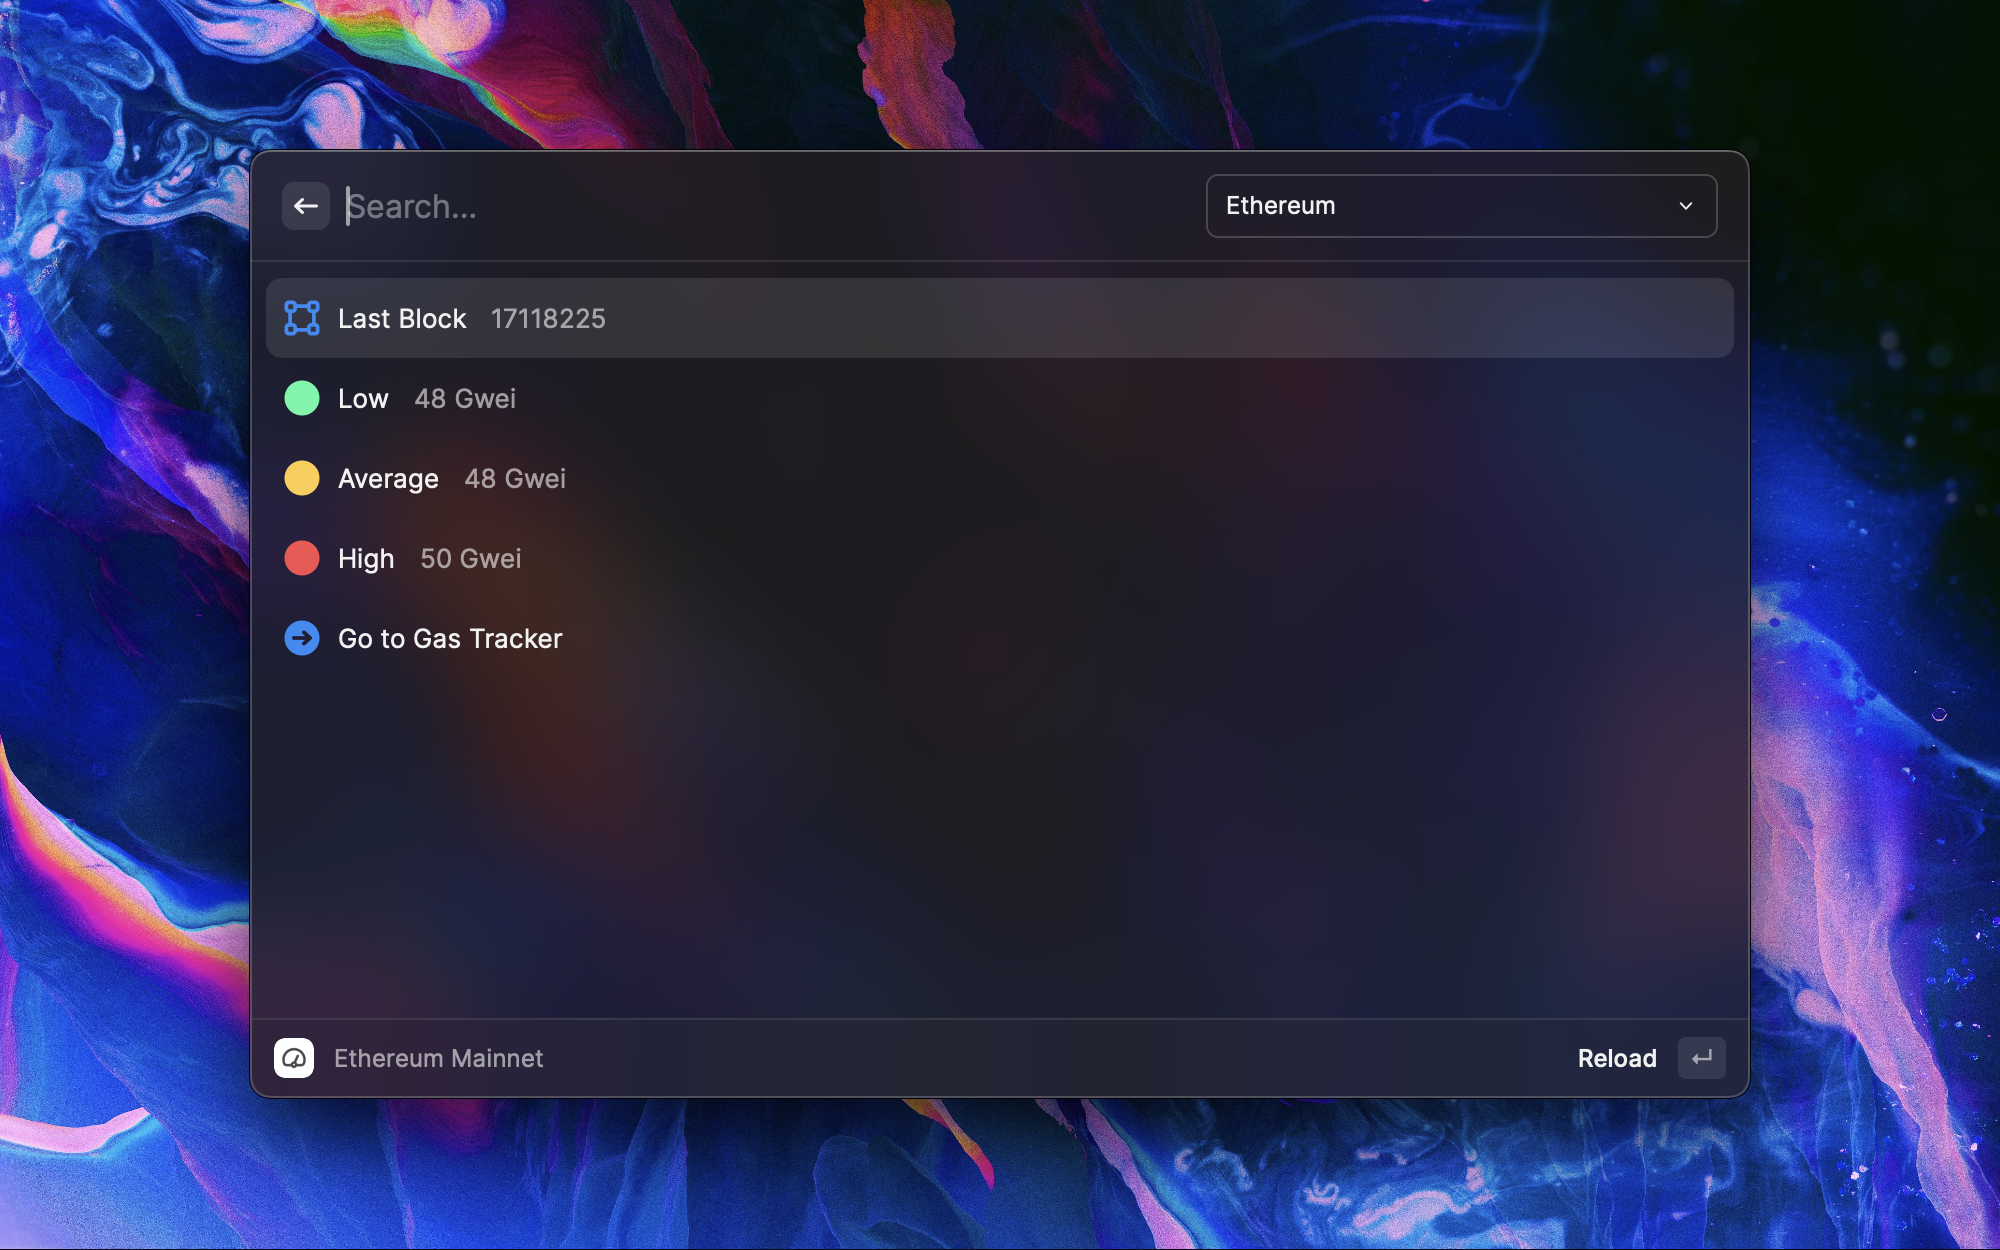
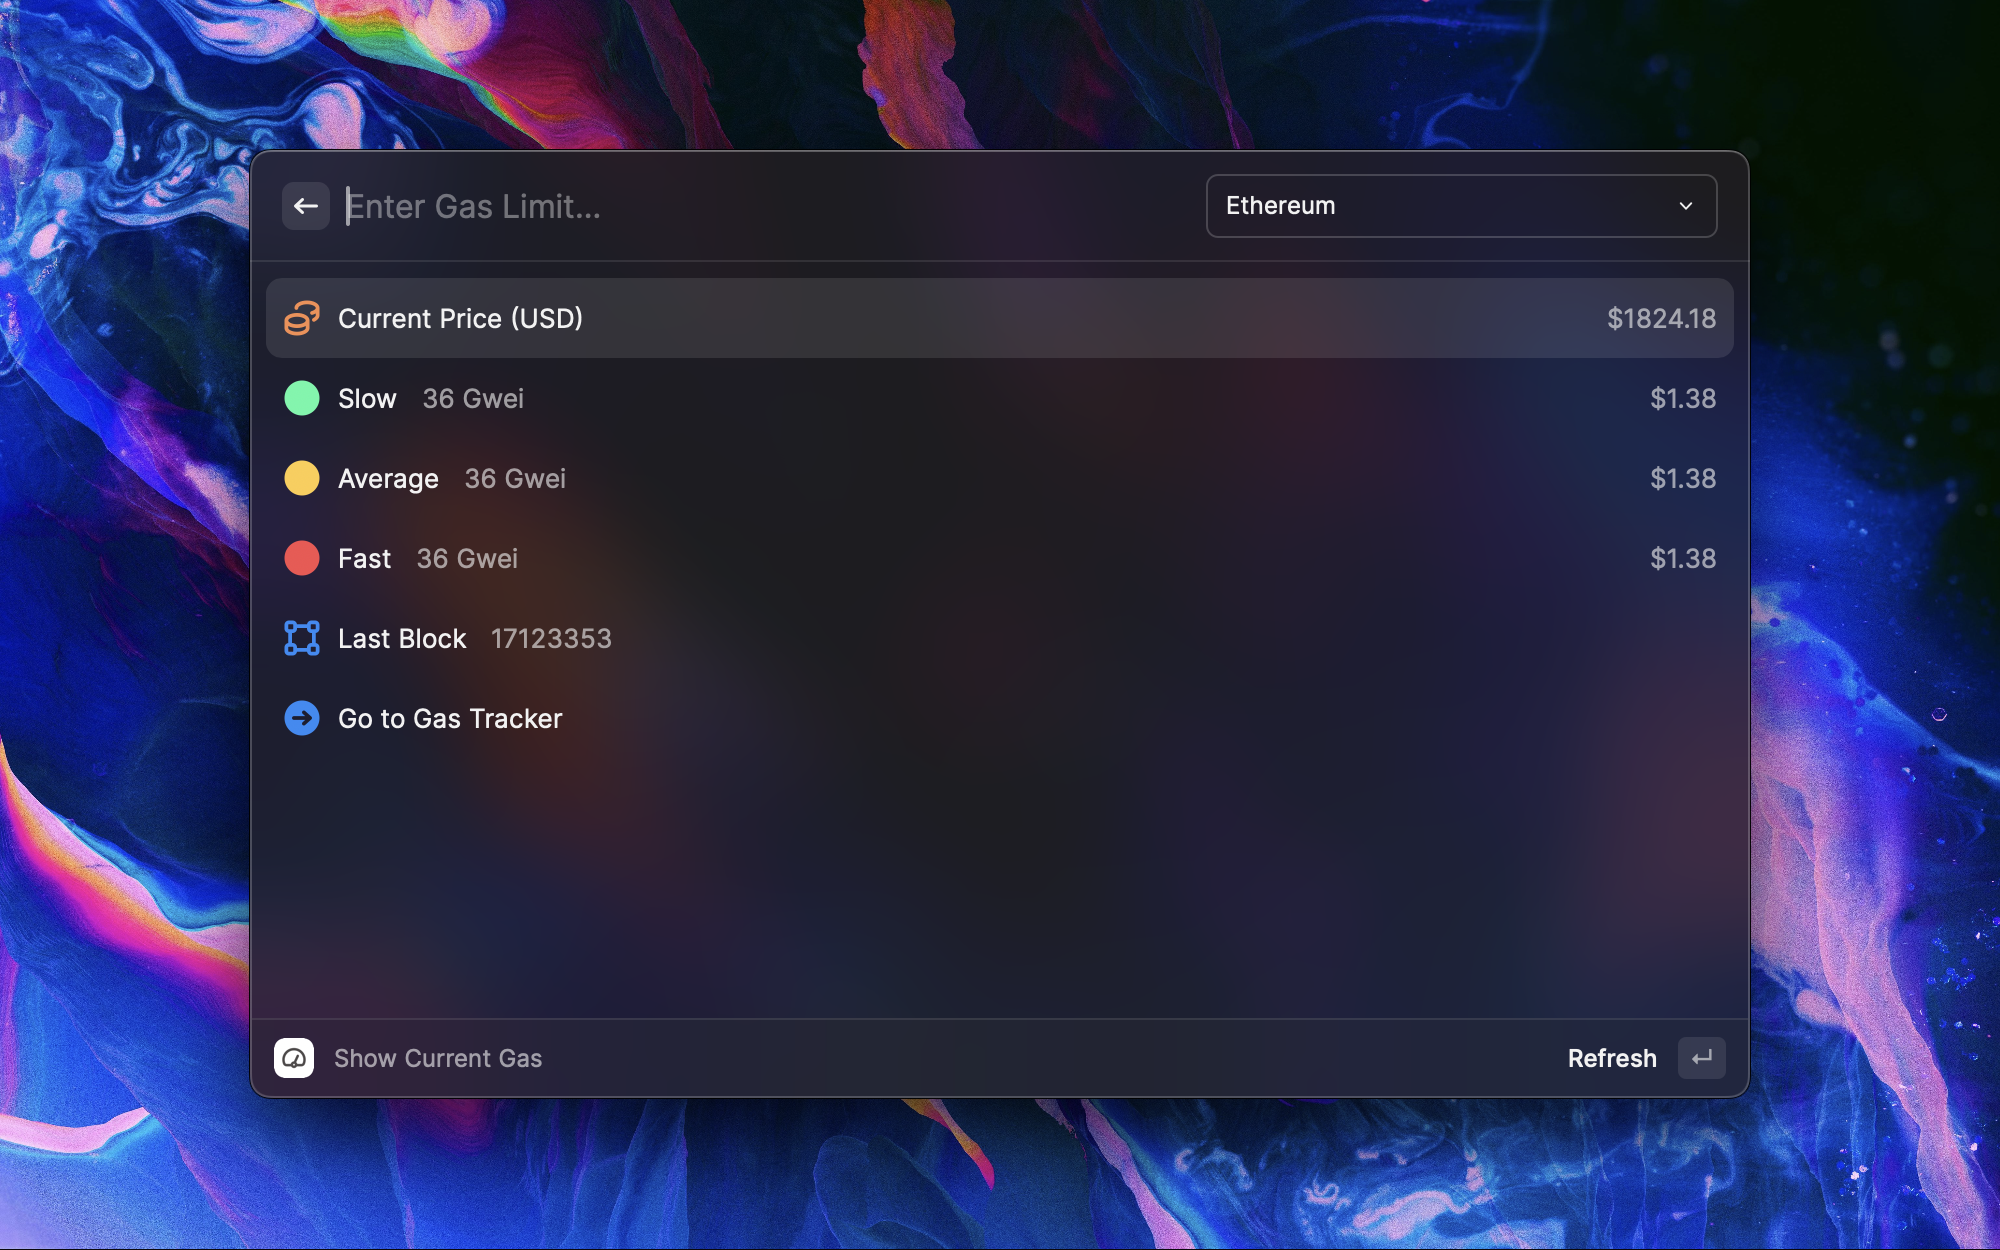
Pull contributions

diff --git a/src/currentGas.tsx b/src/currentGas.tsx
@@ -1,8 +1,8 @@
-import { ActionPanel, Detail, List, Action, Icon, Color } from "@raycast/api";
+import { ActionPanel, List, Action, Icon, Color, getPreferenceValues } from "@raycast/api";
 import { useFetch } from "@raycast/utils";
 import { useState } from "react";
 
-type gasResp = {
+interface gasResp {
   status: string;
   message: string;
   result: {
@@ -12,103 +12,237 @@ type gasResp = {
     FastGasPrice: string;
     suggestBaseFee: string;
     gasUsedRatio: string;
+    UsdPrice: string;
   };
-};
+}
+
+interface priceResp {
+  status: string;
+  message: string;
+  result: {
+    [key: string]: string;
+  };
+}
+
+interface preference {
+  ethscanKey: string;
+  polygonscanKey: string;
+  bscscanKey: string;
+}
 
 export default function Command() {
+  const preference = getPreferenceValues<preference>();
+  const [token, setToken] = useState<string>("eth");
   const [explorerUrl, setExplorerUrl] = useState<string>("https://etherscan.io/");
   const [apiUrl, setApiUrl] = useState<string>("https://api.etherscan.io/");
-  const { isLoading, data, revalidate } = useFetch<gasResp>(apiUrl + "api?module=gastracker&action=gasoracle");
-  const { LastBlock, SafeGasPrice, ProposeGasPrice, FastGasPrice } = data?.result || {};
-
-  return (
-    <List
-      navigationTitle="Ethereum Mainnet"
-      isLoading={isLoading}
-      searchBarAccessory={
-        <List.Dropdown
-          tooltip="Select Network"
-          defaultValue="eth"
-          storeValue={true}
-          onChange={(value) => {
-            if (value === "eth") {
-              setApiUrl("https://api.etherscan.io/");
-              setExplorerUrl("https://etherscan.io/");
-            } else if (value === "polygon") {
-              setApiUrl("https://api.polygonscan.com/");
-              setExplorerUrl("https://polygonscan.com/");
-            }
-          }}
-        >
-          <List.Dropdown.Item title="Ethereum" value="eth" />
-          <List.Dropdown.Item title="Polygon" value="polygon" />
-        </List.Dropdown>
-      }
-    >
-      <List.Item
-        icon={{
-          source: Icon.EditShape,
-          tintColor: Color.Blue,
-        }}
-        title="Last Block"
-        subtitle={LastBlock}
-        actions={
-          <ActionPanel>
-            <Action title="Reload" onAction={() => revalidate()} />
-          </ActionPanel>
+  const [apiKey, setApiKey] = useState<string>("NotARealApiToken");
+  const [gasLimit, setGasLimit] = useState<number>(21000);
+  const [roundFloat, setRoundFloat] = useState<number>();
+  const { data: gasData, revalidate: gasRevalidate } = useFetch<gasResp>(
+    `${apiUrl}api?module=gastracker&action=gasoracle&apikey=${apiKey}`,
+    {
+      keepPreviousData: true,
+      onData: (data) => {
+        if (data.status !== "1") {
+          gasRevalidate();
         }
-      />
-      <List.Item
-        icon={{
-          source: Icon.CircleFilled,
-          tintColor: Color.Green,
-        }}
-        title="Low"
-        subtitle={SafeGasPrice + " Gwei"}
-        actions={
-          <ActionPanel>
-            <Action title="Reload" onAction={() => revalidate()} />
-          </ActionPanel>
-        }
-      />
-      <List.Item
-        icon={{
-          source: Icon.CircleFilled,
-          tintColor: Color.Yellow,
-        }}
-        title="Average"
-        subtitle={ProposeGasPrice + " Gwei"}
-        actions={
-          <ActionPanel>
-            <Action title="Reload" onAction={() => revalidate()} />
-          </ActionPanel>
-        }
-      />
-      <List.Item
-        icon={{
-          source: Icon.CircleFilled,
-          tintColor: Color.Red,
-        }}
-        title="High"
-        subtitle={FastGasPrice + " Gwei"}
-        actions={
-          <ActionPanel>
-            <Action title="Reload" onAction={() => revalidate()} />
-          </ActionPanel>
-        }
-      />
-      <List.Item
-        icon={{
-          source: Icon.ArrowRightCircleFilled,
-          tintColor: Color.Blue,
-        }}
-        title="Go to Gas Tracker"
-        actions={
-          <ActionPanel>
-            <Action.OpenInBrowser url={explorerUrl + "/gastracker"} />
-          </ActionPanel>
-        }
-      />
-    </List>
+      },
+    }
   );
+  const { data: priceData, revalidate: priceRevalidate } = useFetch<priceResp>(
+    `${apiUrl}api?module=stats&action=${token}price&apikey=${apiKey}`,
+    {
+      keepPreviousData: true,
+      onData: (data) => {
+        if (data.status !== "1") {
+          priceRevalidate();
+        }
+      },
+    }
+  );
+  let LastBlock: string | undefined;
+  let lowPrice: string | undefined;
+  let avgPrice: string | undefined;
+  let fastPrice: string | undefined;
+  let tokenPrice: string | undefined;
+  if (token === "eth" || token === "matic") {
+    LastBlock = gasData?.result?.LastBlock;
+    lowPrice = gasData?.result?.SafeGasPrice;
+    avgPrice = gasData?.result?.ProposeGasPrice;
+    fastPrice = gasData?.result?.FastGasPrice;
+    tokenPrice = priceData?.result[token + "usd"];
+  } else if (token === "bnb") {
+    LastBlock = gasData?.result?.LastBlock;
+    lowPrice = gasData?.result?.SafeGasPrice;
+    avgPrice = gasData?.result?.ProposeGasPrice;
+    fastPrice = gasData?.result?.FastGasPrice;
+    tokenPrice = gasData?.result?.UsdPrice;
+  }
+
+  function refresh() {
+    LastBlock = undefined;
+    tokenPrice = undefined;
+    gasRevalidate();
+    priceRevalidate();
+  }
+
+  function dropdownMenu() {
+    return (
+      <List.Dropdown
+        tooltip="Select Network"
+        defaultValue="eth"
+        storeValue={true}
+        onChange={(value) => {
+          if (value === "eth") {
+            setApiUrl("https://api.etherscan.io/");
+            setExplorerUrl("https://etherscan.io/");
+            setToken(value);
+            setApiKey(preference.ethscanKey);
+            setRoundFloat(2);
+          } else if (value === "matic") {
+            setApiUrl("https://api.polygonscan.com/");
+            setExplorerUrl("https://polygonscan.com/");
+            setToken(value);
+            setApiKey(preference.polygonscanKey);
+            setRoundFloat(5);
+          } else if (value === "bnb") {
+            setApiUrl("https://api.bscscan.com/");
+            setExplorerUrl("https://bscscan.com/");
+            setToken(value);
+            setApiKey(preference.bscscanKey);
+            setRoundFloat(5);
+          }
+        }}
+      >
+        <List.Dropdown.Item title="Ethereum" value="eth" />
+        <List.Dropdown.Item title="Polygon" value="matic" />
+        <List.Dropdown.Item title="Binance Smart Chain" value="bnb" />
+      </List.Dropdown>
+    );
+  }
+
+  function returnList(isLoading: boolean) {
+    console.log(token);
+    if (!isLoading) {
+      return (
+        <List
+          navigationTitle="Show Current Gas"
+          isLoading={isLoading}
+          onSearchTextChange={(text) => {
+            setGasLimit(Number(text));
+          }}
+          searchBarPlaceholder="Enter Gas Limit"
+          searchBarAccessory={dropdownMenu()}
+        >
+          <List.Item
+            icon={{
+              source: Icon.Coins,
+              tintColor: Color.Orange,
+            }}
+            title="Current Price (USD)"
+            accessories={[{ text: `$${tokenPrice}` }]}
+            actions={
+              <ActionPanel>
+                <Action title="Refresh" onAction={() => refresh()} />
+              </ActionPanel>
+            }
+          />
+          <List.Item
+            icon={{
+              source: Icon.CircleFilled,
+              tintColor: Color.Green,
+            }}
+            title="Slow"
+            subtitle={lowPrice + " Gwei"}
+            actions={
+              <ActionPanel>
+                <Action title="Refresh" onAction={() => refresh()} />
+              </ActionPanel>
+            }
+            accessories={[
+              { text: `$${((Number(tokenPrice) / 1000000000) * Number(lowPrice) * gasLimit).toFixed(roundFloat)}` },
+            ]}
+          />
+          <List.Item
+            icon={{
+              source: Icon.CircleFilled,
+              tintColor: Color.Yellow,
+            }}
+            title="Average"
+            subtitle={avgPrice + " Gwei"}
+            actions={
+              <ActionPanel>
+                <Action title="Refresh" onAction={() => refresh()} />
+              </ActionPanel>
+            }
+            accessories={[
+              { text: `$${((Number(tokenPrice) / 1000000000) * Number(avgPrice) * gasLimit).toFixed(roundFloat)}` },
+            ]}
+          />
+          <List.Item
+            icon={{
+              source: Icon.CircleFilled,
+              tintColor: Color.Red,
+            }}
+            title="Fast"
+            subtitle={fastPrice + " Gwei"}
+            actions={
+              <ActionPanel>
+                <Action title="Refresh" onAction={() => refresh()} />
+              </ActionPanel>
+            }
+            accessories={[
+              { text: `$${((Number(tokenPrice) / 1000000000) * Number(fastPrice) * gasLimit).toFixed(roundFloat)}` },
+            ]}
+          />
+          <List.Item
+            icon={{
+              source: Icon.EditShape,
+              tintColor: Color.Blue,
+            }}
+            title="Last Block"
+            subtitle={LastBlock}
+            actions={
+              <ActionPanel>
+                <Action title="Refresh" onAction={() => refresh()} />
+              </ActionPanel>
+            }
+          />
+          <List.Item
+            icon={{
+              source: Icon.ArrowRightCircleFilled,
+              tintColor: Color.Blue,
+            }}
+            title="Go to Gas Tracker"
+            actions={
+              <ActionPanel>
+                <Action.OpenInBrowser url={explorerUrl + "/gastracker"} />
+              </ActionPanel>
+            }
+          />
+        </List>
+      );
+    } else {
+      return (
+        <List navigationTitle="Show Current Gas" isLoading={isLoading} searchBarAccessory={dropdownMenu()}>
+          <List.Item
+            icon={{
+              source: Icon.Info,
+              tintColor: Color.Blue,
+            }}
+            title="Loading..."
+          />
+          <List.Item
+            icon={{
+              source: Icon.Info,
+              tintColor: Color.Blue,
+            }}
+            title="Tips: Add api keys in preferences to avoid waiting"
+          />
+        </List>
+      );
+    }
+  }
+
+  return returnList(LastBlock === undefined || tokenPrice === undefined);
 }

diff --git a/CHANGELOG.md b/CHANGELOG.md
@@ -1,4 +1,4 @@
 # Blockchain Gas Tracker Changelog
 
-## [Initial Version] - 2023-04-24
- - Add Show Current Gas Price in Ethereum and Polygon Network
+## [Initial Version] - 2023-04-25
+ - Add Show Current Gas Price in Ethereum, Polygon and BSC Network

diff --git a/README.md b/README.md
@@ -1,3 +1,6 @@
 # Blockchain Gas Tracker
 
-Track and caculate ethereum gas fee right in your Raycast!
+Track and caculate ethereum gas fee right in your Raycast.
+More blockchain network coming soon!
+
+Powered by EthScan, PolygonScan, BscScan APIs.
